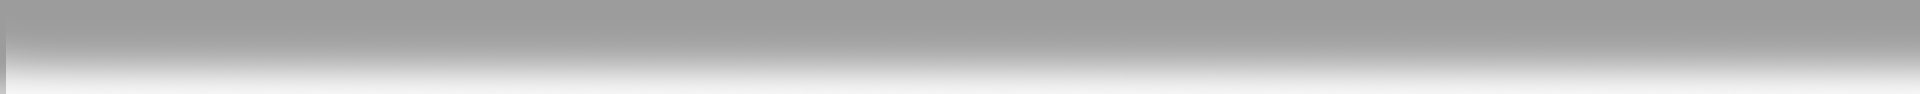
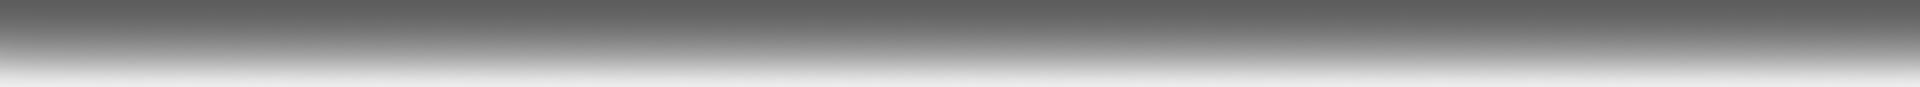
修改导航栏样式

diff --git a/components/ui/header.tsx b/components/ui/header.tsx
@@ -123,25 +123,28 @@ export default function Header({
       ))}
       {contactVisible && (
         <div className="nav-bar-contact" ref={modalRef}>
-          {contactList.map((item) => (
-            <div key={item.qrCodeId} className="nav-bar-contact-box">
-              <div
-                className="nav-bar-contact-code"
-                onClick={() => {
-                  if (item.qrCodeUrl) {
-                   
-                    window.open(item.qrCodeUrl);
-                  }
-                }}
-              >
-                <img
-                  className="nav-bar-contact-code-img"
-                  src={getImgUrl(item.qrCodeImage)}
-                />
+          <div className="nav-bar-contact-content">
+            {contactList.map((item) => (
+              <div key={item.qrCodeId} className="nav-bar-contact-box">
+                <div
+                  className="nav-bar-contact-code"
+                  onClick={() => {
+                    if (item.qrCodeUrl) {
+                      window.open(item.qrCodeUrl);
+                    }
+                  }}
+                >
+                  <img
+                    className="nav-bar-contact-code-img"
+                    src={getImgUrl(item.qrCodeImage)}
+                  />
+                </div>
+                <div className="nav-bar-contact-codename">
+                  {item.qrCodeName}
+                </div>
               </div>
-              <div className="nav-bar-contact-codename">{item.qrCodeName}</div>
-            </div>
-          ))}
+            ))}
+          </div>
         </div>
       )}
     </div>

diff --git a/components/ui/header.css b/components/ui/header.css
@@ -71,27 +71,34 @@
   width: 15px;
   height: 8px;
   position: absolute;
-      bottom: 10px;
-    left: 50%;
-    transform: translateX(-50%);
+  bottom: 10px;
+  left: 50%;
+  transform: translateX(-50%);
 }
 
 .nav-bar-contact {
   font-family: var(--font-alibaba-puhuiti);
-  height: 179px;
+  height: 180px;
   position: absolute;
   /* background: red; */
   right: 43px;
-  top: 90px;
-  display: flex;
+  top: 87px;
   text-align: center;
   background-image: url("../../public/images/contact_bg.png");
-  /* background-repeat: no-repeat; */
-  background-position: center;
-  background-size: cover;
-  gap: 26px;
-  padding: 25px;
+  background-repeat: repeat-x; /* 水平方向重复 */
+  background-size: auto 100%; /* 高度与div一致，宽度按比例自动计算 */
+  background-position: center top; /* 水平居中开始，垂直顶部对齐 */
+  /* 隐藏超出宽度的内容 */
   overflow: hidden;
+}
+
+.nav-bar-contact-content {
+  display: flex;
+  gap: 27px;
+  padding: 24px 27px 21px;
+  border: 1px solid #ffc85d;
+  border-bottom: none;
+  height: calc(100% - 6px);
 }
 
 .nav-bar-contact-code {
@@ -122,5 +129,6 @@
 }
 
 .nav-bar-contact-codename {
-  font-size: 17px;
+  font-size: 17.34px;
+  line-height: 31px;
 }

diff --git a/components/ui/Footer.css b/components/ui/Footer.css
@@ -43,6 +43,7 @@
   font-size: 13.3px;
   line-height: 20px;
   text-align: left;
+  font-family: var(--font-alibaba-puhuiti);
 }
 
 .footer-text-line {
